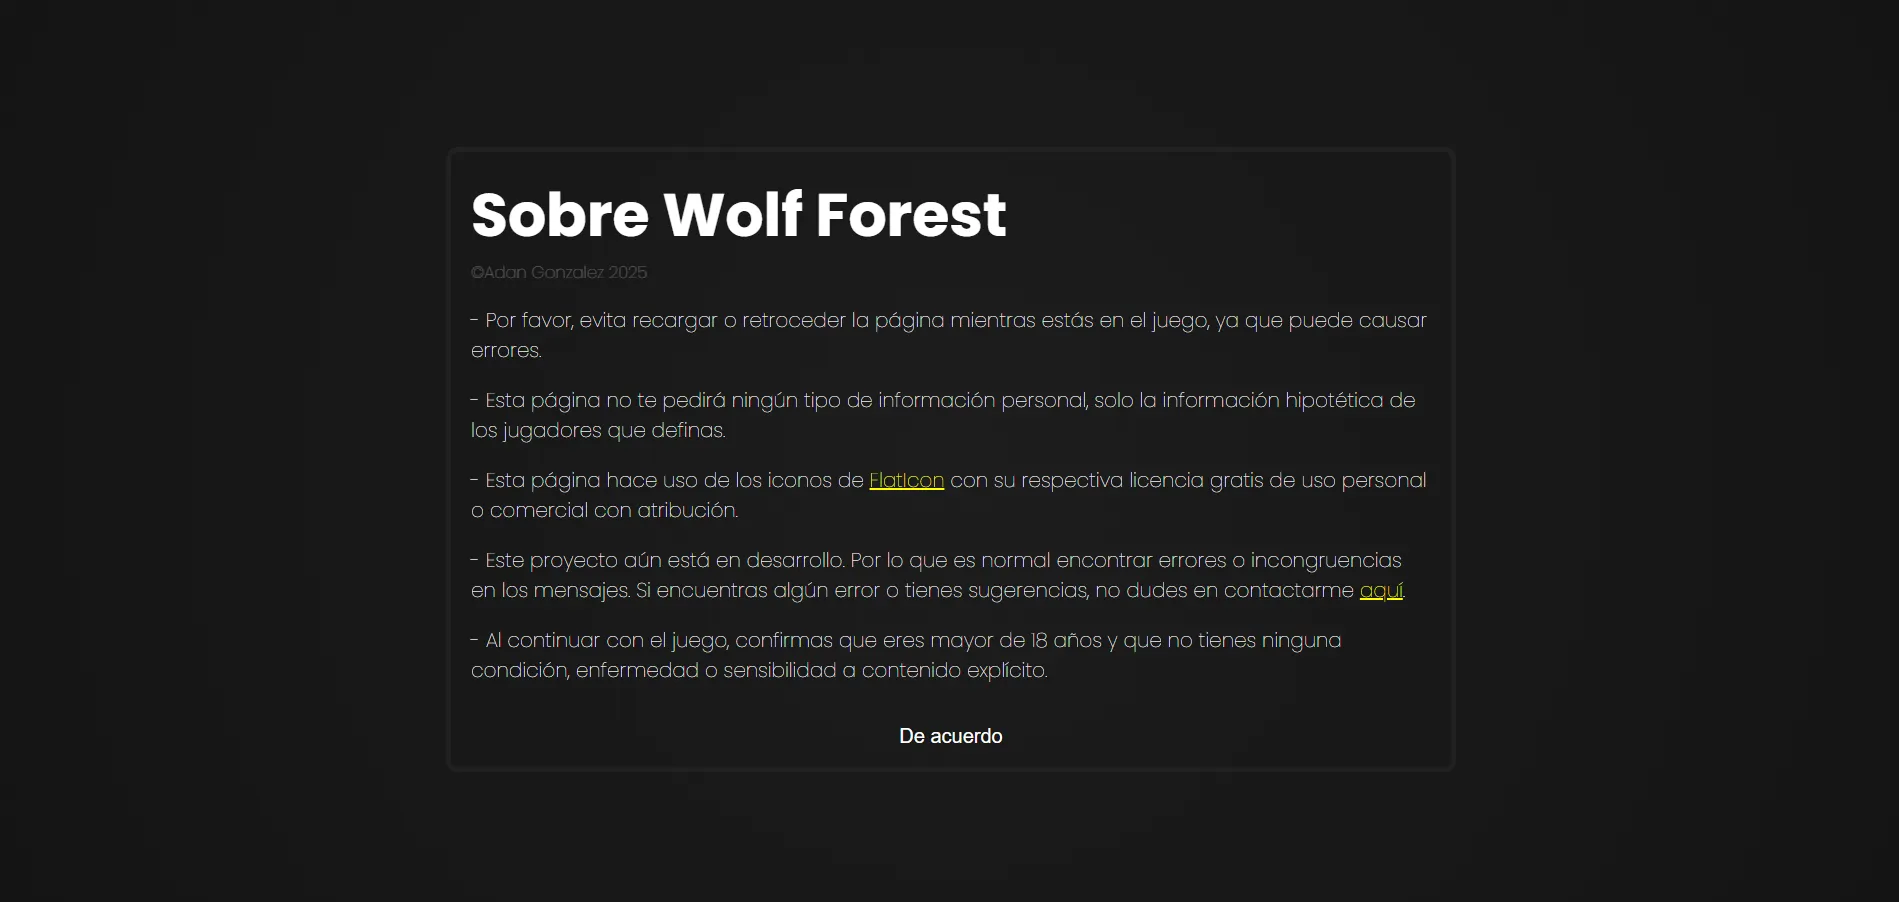
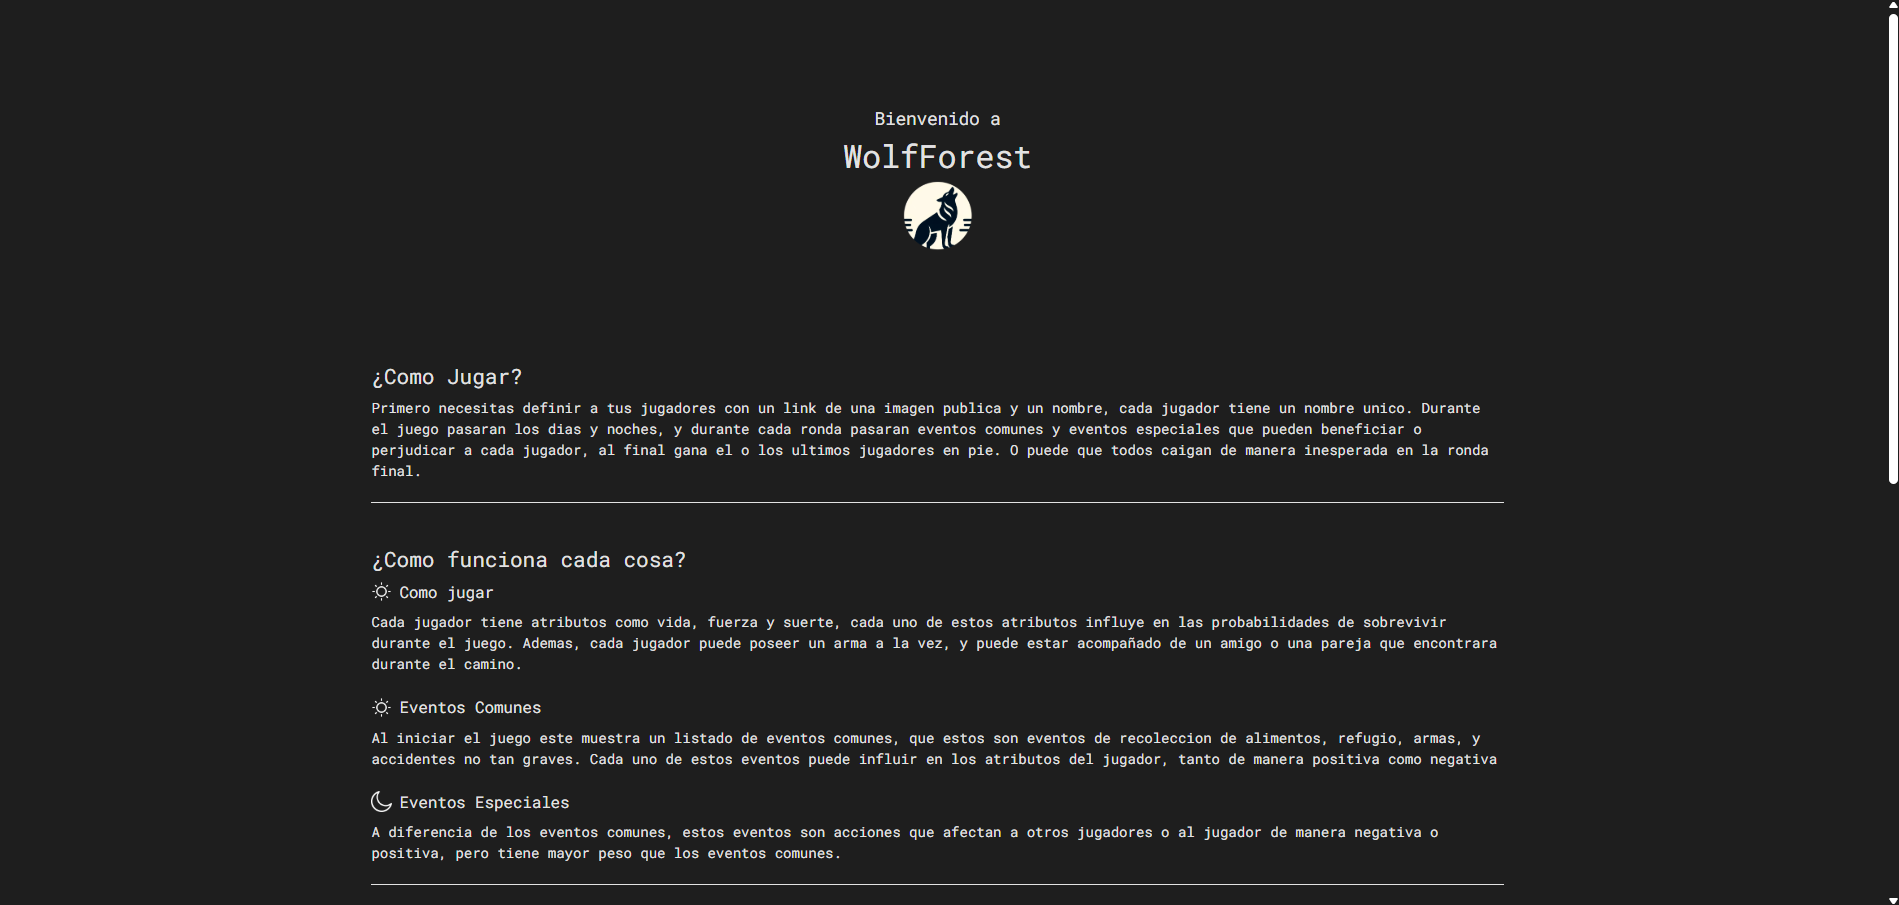
idk

diff --git a/src/pages/Projects.tsx b/src/pages/Projects.tsx
@@ -2,7 +2,7 @@ import { useLanguage } from "@/hooks/useLanguage"
 import { useEffect, useState, type RefObject } from "react";
 import type { Project } from "@/entities/project.entity";
 import { getProjects } from "@/scripts/projects";
-import { listUpContainerAnimations, listUpItemAnimations, pageContainerAnimation, viewPortAnimation } from "@/constants/animations";
+import { listUpContainerAnimations, listUpItemAnimations, pageContainerAnimation, tailwindcssDuration, viewPortAnimation } from "@/constants/animations";
 import { AnimatePresence, motion } from "framer-motion";
 import SkillItem from "@/components/SkillItem";
 import Carrusel from "@/components/Carrusel";
@@ -11,7 +11,6 @@ import { useTheme } from "@/hooks/useTheme";
 interface Prompts {
     pageRef: RefObject<any>
 }
-
 
 export default function Projects({ pageRef }: Prompts) {
     const { t } = useLanguage();
@@ -50,8 +49,9 @@ export default function Projects({ pageRef }: Prompts) {
                 {projects.map((current) => (
                     <motion.li variants={listUpItemAnimations}
                         key={current.title}
-                        className={`${current.title === currentProject.title ? 'h-full bg-[#191919]' : 'h-6/10 bg-[#555] hover:h-8/10 duration-125 hover:bg-[#333]'} flex items-center justify-center px-4 py-1 cursor-pointer rounded-t-xl`}
+                        className={`${current.title === currentProject.title ? 'h-full bg-[#191919]' : 'h-6/10 bg-[#555] hover:h-8/10 duration-125 hover:bg-[#333]'} flex items-center justify-center px-4 py-1 cursor-pointer rounded-t-xl gap-2`}
                         onClick={() => { setCurrentProject(current) }}>
+                        <img src="/examples/tickets.svg" alt="icon" className={`${current.title === currentProject.title ? 'h-4':'h-2'} group-hover:h-4 ${tailwindcssDuration}`} />
                         <span className={`${current.title === currentProject.title ? 'font-bold' : 'opacity-60'} whitespace-nowrap text-white text-base`}>{current.title}</span>
                     </motion.li>
                 ))}